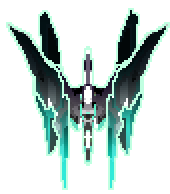
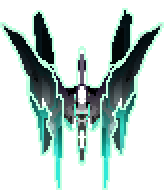
엘리트 적1 만듬

Changed region(s): [[0.0, 0.0309, 0.9451, 0.9897], [0.9146, 0.1237, 1.0, 0.1856]]

diff --git a/Space/EliteEnemy1.cpp b/Space/EliteEnemy1.cpp
@@ -1,0 +1,108 @@
+#include "stdafx.h"
+#include "EliteEnemy1.h"
+#include"EnemyBullet.h"
+
+EliteEnemy1::EliteEnemy1(Vec2 Pos)
+{
+	m_Enemy = Sprite::Create(L"Painting/Object/Enemy/EliteEnemy1.png");
+	m_Enemy->SetParent(this);
+
+	m_Position = Pos;
+
+	m_Speed = 500.f;
+	m_Atk = 34.f;
+	m_HP = 1500.f;
+	
+	m_LastFireTick = 0.f;
+	m_NowTime = 0.f;
+	m_FireDelay = 0.5f;
+
+	m_RandomPosition = Vec2((rand() % 400) + 660, (rand() % 300));
+	m_MoveWaitingTime = 7.f;
+	m_LastMoveTime = 4.f;
+
+	m_NumShotFired = 0.f;
+}
+
+EliteEnemy1::~EliteEnemy1()
+{
+}
+
+void EliteEnemy1::Move()
+{
+	Vec2 A, B, Dire;
+	const int EPSILON = 10;
+
+	A = m_Position;
+	B = m_RandomPosition;
+
+	Dire = B - A;
+
+	D3DXVec2Normalize(&Dire, &Dire);
+
+	if (abs(m_Position.x - m_RandomPosition.x) > EPSILON&& abs(m_Position.y - m_RandomPosition.y) > EPSILON)
+	{
+		Translate(Dire.x * m_Speed * dt, Dire.y * m_Speed * dt);
+	}
+	else
+	{
+		m_RandomPosition = Vec2((rand() % 400) + 660, (rand() % 300));
+		m_LastMoveTime = 0.f;
+	}
+}
+
+void EliteEnemy1::Shot()
+{
+	if (m_NumShotFired % 2 == 1)
+	{
+		ObjMgr->AddObject(new EnemyBullet(Vec2(m_Position.x, m_Position.y + 60), m_Atk, 600, 0 + 180,	false, 50, false, L"BigBullet"), "EnemyBullet");
+		ObjMgr->AddObject(new EnemyBullet(Vec2(m_Position.x, m_Position.y + 60), m_Atk, 600, -40 + 180, false, 50, false, L"BigBullet"), "EnemyBullet");
+		ObjMgr->AddObject(new EnemyBullet(Vec2(m_Position.x, m_Position.y + 60), m_Atk, 600, 40 + 180, false, 50, false, L"BigBullet"), "EnemyBullet");
+	}
+	if (m_NumShotFired % 2 == 0)
+	{
+		ObjMgr->AddObject(new EnemyBullet(Vec2(m_Position.x, m_Position.y + 60), m_Atk, 600, 20 + 180, false, 50, false, L"BigBullet"), "EnemyBullet");
+		ObjMgr->AddObject(new EnemyBullet(Vec2(m_Position.x, m_Position.y + 60), m_Atk, 600, -20 + 180, false, 50, false, L"BigBullet"), "EnemyBullet");
+		ObjMgr->AddObject(new EnemyBullet(Vec2(m_Position.x, m_Position.y + 60), m_Atk, 600, 60 + 180, false, 50, false, L"BigBullet"), "EnemyBullet");
+		ObjMgr->AddObject(new EnemyBullet(Vec2(m_Position.x, m_Position.y + 60), m_Atk, 600, -60 + 180, false, 50, false, L"BigBullet"), "EnemyBullet");	}
+
+	m_NumShotFired++;
+}
+
+void EliteEnemy1::Update(float deltaTime, float Time)
+{
+	m_LastFireTick += dt;
+	m_NowTime += dt;
+	m_LastMoveTime += dt;
+	
+	if (m_Position.y <= 100)
+	{
+		m_Position.y += 300.f * dt;
+	}
+	 if (m_LastMoveTime >= m_MoveWaitingTime)
+	{
+		Move();
+	}
+
+	if (m_LastFireTick >= m_FireDelay && m_Tag != "Bullet")
+	{
+		Shot();
+		m_LastFireTick = 0.f;
+	}
+
+	if (m_HP <= 0)
+	{
+		GameMgr::GetInst()->m_AcqExp += 50;
+		ObjMgr->AddObject(new EffectMgr(L"Painting/Object/Effect/Big/", 1, 9, 5, m_Position), "Effect");
+		SetDestroy(true);
+	}
+}
+
+void EliteEnemy1::Render()
+{
+	m_Enemy->Render();
+}
+
+void EliteEnemy1::OnCollision(Object* other)
+{
+}

diff --git a/Space/Player.cpp b/Space/Player.cpp
@@ -4,7 +4,7 @@
 #include"SpreadBullet.h"
 #include"Shield.h"
 #include"Bomb.h"
-#include"Enemy2.h"
+#include"EliteEnemy1.h"
 #include"Item.h"
 #include"Laser.h"
 
@@ -56,7 +56,7 @@ void Player::Init()
 	m_HP = m_MAXHP;
 	m_Exp = 0;
 	m_Level = 1;
-	m_DirectBasicAtk = 100.f;
+	m_DirectBasicAtk = 50.f;
 	m_SpreadBasicAtk = m_DirectBasicAtk * 0.66f;
 	m_Speed = 300.f;
 	m_RPMIncrease = 0.f;
@@ -99,7 +99,7 @@ void Player::Update(float deltaTime, float Time)
 		ObjMgr->AddObject(new Item(Vec2(1920 / 2, 300)), "ITEM");
 	if (INPUT->GetKey('A') == KeyState::DOWN)
 	{
-		ObjMgr->AddObject(new Enemy2(Vec2(1920 / 2, -100)), "Enemy");
+		ObjMgr->AddObject(new EliteEnemy1(Vec2(1920 / 2, -100)), "Enemy");
 	}
 }
 

diff --git a/Space/EnemyBullet.cpp b/Space/EnemyBullet.cpp
@@ -1,7 +1,7 @@
 #include "stdafx.h"
 #include "EnemyBullet.h"
 
-EnemyBullet::EnemyBullet(Vec2 Pos, float atk, float speed, float angle, bool isrand, int randrange, bool playerguidance, std::wstring filename)
+EnemyBullet::EnemyBullet(Vec2 Pos, float atk, float speed, float angle /* degree */, bool isrand, int randrange, bool playerguidance, std::wstring filename)
 {
 	m_Bullet = Sprite::Create(L"Painting/Object/Bullet/"+ filename + L".png");
 	m_Bullet->SetParent(this);

diff --git a/Space/EliteEnemy1.h b/Space/EliteEnemy1.h
@@ -1,0 +1,28 @@
+#pragma once
+class EliteEnemy1 : public Object
+{
+	Sprite* m_Enemy;
+public:
+	EliteEnemy1(Vec2 Pos);
+	~EliteEnemy1();
+
+	float m_Atk;
+	float m_LastFireTick;
+	float m_NowTime;
+	float m_Speed;
+	float m_FireDelay;
+
+	Vec2 m_RandomPosition;
+	float m_MoveWaitingTime;
+	float m_LastMoveTime;
+
+	int m_NumShotFired;
+
+	void Move();
+	void Shot();
+
+	void Update(float deltaTime, float Time);
+	void Render();
+	void OnCollision(Object* other);
+};
+
